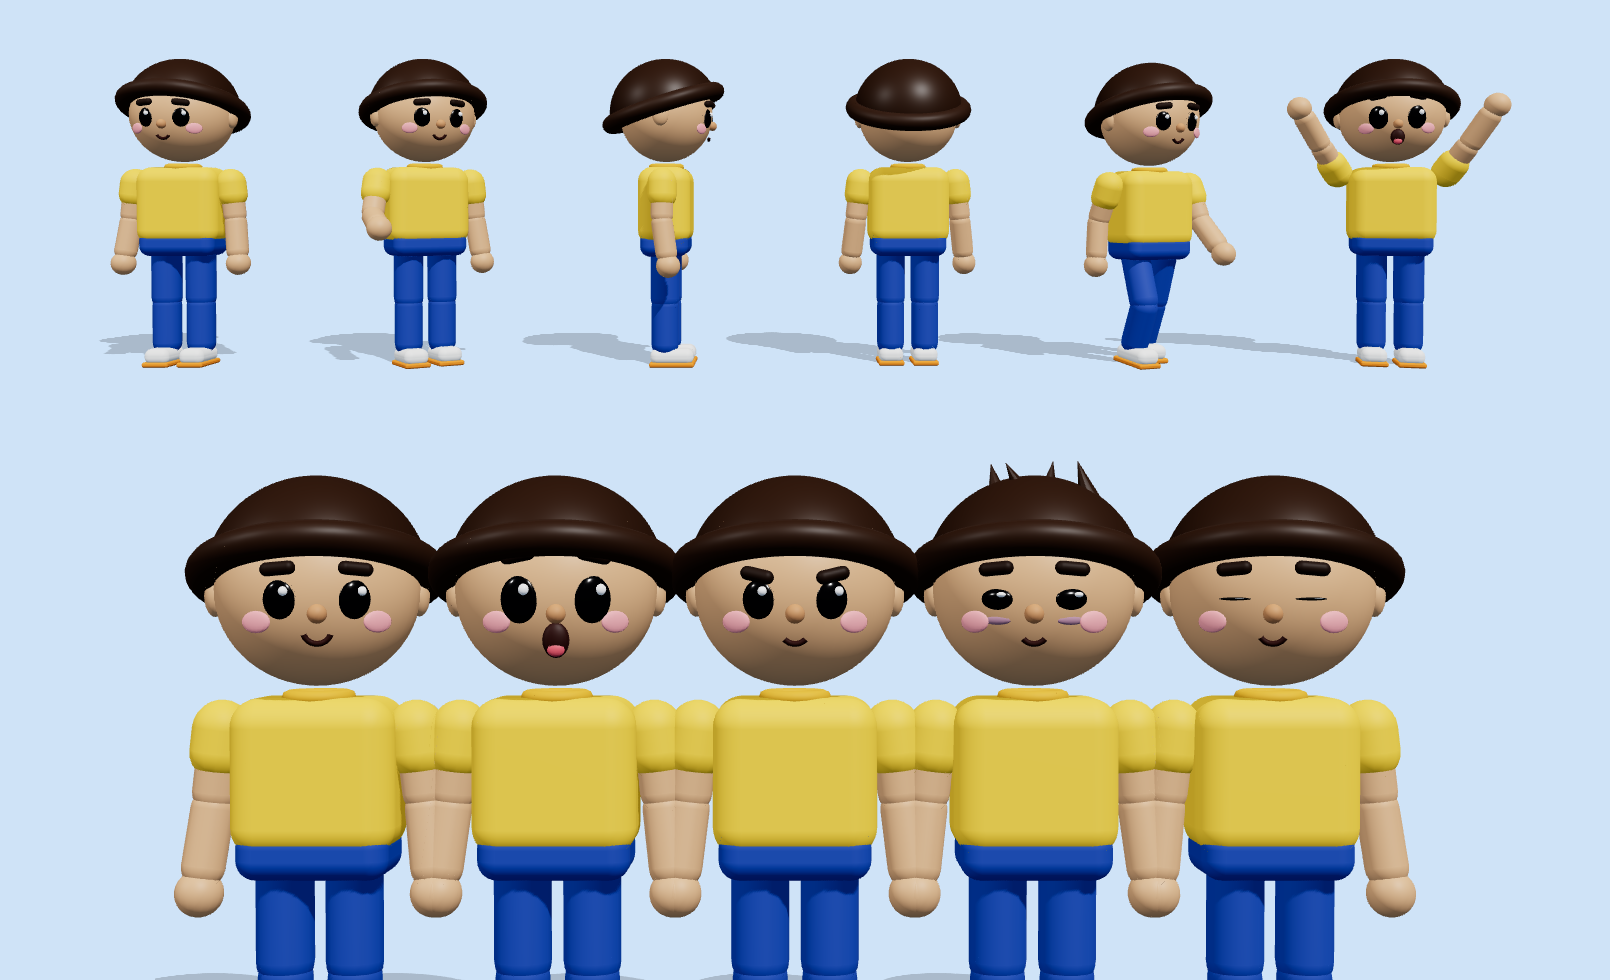
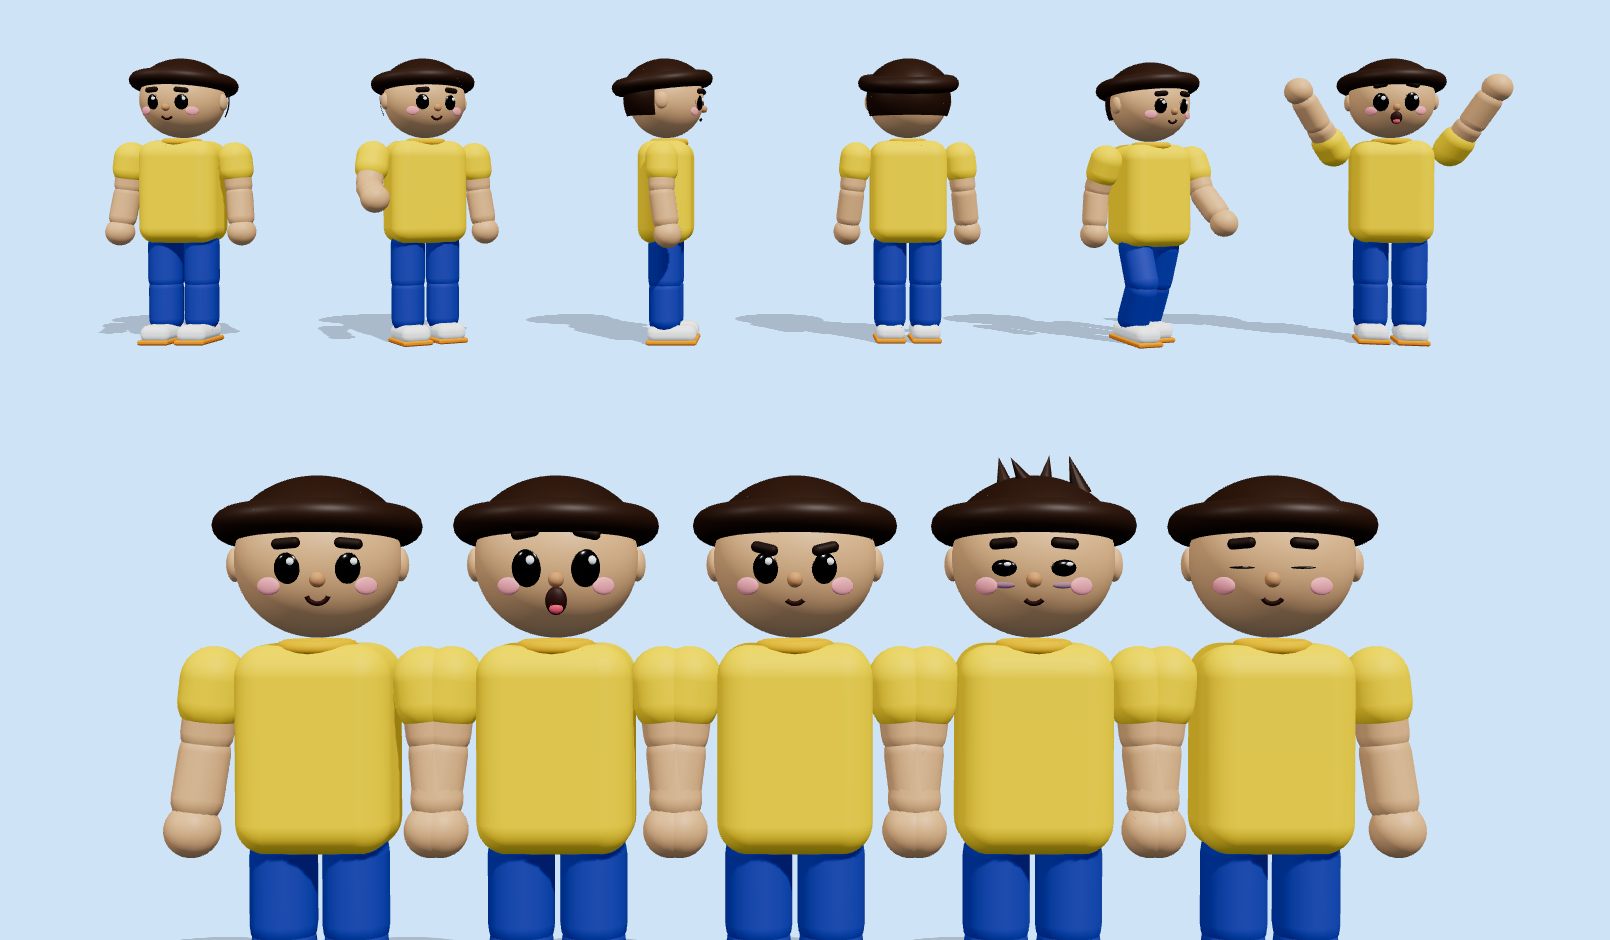
Personagem novo com as proporções da referência (cabeça, tronco, pernas, braços e cabelo medidos)
Claude-Session: https://claude.ai/code/session_014rWy54wiyDCdXJ8meXmh5L

Changed region(s): [[0.0932, 0.4628, 0.9006, 1.0], [0.1863, 0.0617, 0.9627, 0.4011], [0.0621, 0.0617, 0.1553, 0.4011]]

diff --git a/teste-fogo/src/Toy.tsx b/teste-fogo/src/Toy.tsx
@@ -40,21 +40,26 @@ const useToyMats = (L: ToyLook) =>
     [L.skin, L.shirt, L.pants, L.hair, L.shoe, L.sole],
   );
 
-const HIP = 0.78;
+/* proporções medidas no boneco de referência (altura total ≈ 2,0):
+   tênis 0–0,13 · pernas até 0,70 · tronco 0,70–1,415 · cabeça (com cabelo) 1,445–2,0 */
+const HIP = 0.72;
+const TORSO_BOT = 0.7;
+const TORSO_TOP = 1.415;
 const HR = 0.34; // raio do cabelo
-const HT = 1.5; // até onde o cabelo desce (ângulo a partir do topo)
-const HIPX = 0.12;
-const SHX = 0.33;
-const SHY = 1.3;
+const HT = Math.acos(0.135 / HR); // borda do cabelo na altura da testa (logo acima das sobrancelhas)
+const HIPX = 0.125;
+const SHX = 0.36;
+const SHY = 1.325;
+const THIGH = 0.3;
+const SHIN = 0.29;
 
 export const Toy: React.FC<{pose: Pose; palmRef?: React.Ref<THREE.Object3D>; look?: ToyLook}> = ({pose, palmRef, look = {}}) => {
   const m = useToyMats(look);
   const geo = useMemo(
     () => ({
-      torso: new RoundedBoxGeometry(0.56, 0.54, 0.36, 5, 0.1),
-      waist: new RoundedBoxGeometry(0.52, 0.18, 0.33, 4, 0.07),
-      shoe: new RoundedBoxGeometry(0.17, 0.11, 0.3, 4, 0.05),
-      sole: new RoundedBoxGeometry(0.18, 0.035, 0.31, 3, 0.015),
+      torso: new RoundedBoxGeometry(0.53, TORSO_TOP - TORSO_BOT, 0.37, 5, 0.11),
+      shoe: new RoundedBoxGeometry(0.2, 0.12, 0.34, 4, 0.055),
+      sole: new RoundedBoxGeometry(0.21, 0.035, 0.35, 3, 0.015),
     }),
     [],
   );
@@ -90,23 +95,23 @@ export const Toy: React.FC<{pose: Pose; palmRef?: React.Ref<THREE.Object3D>; loo
   const arm = (side: 1 | -1, shoulder: [number, number, number], elbow: number, wrist: [number, number, number], ref?: React.Ref<THREE.Object3D>) => (
     <group position={[SHX * side, SHY, 0]} rotation={shoulder}>
       {/* manga curta da camiseta */}
-      <mesh position={[0, -0.08, 0]} material={m.shirt} castShadow>
-        <capsuleGeometry args={[0.1, 0.08, 6, 14]} />
+      <mesh position={[0, -0.07, 0]} material={m.shirt} castShadow>
+        <capsuleGeometry args={[0.112, 0.08, 6, 14]} />
       </mesh>
       {/* braço */}
-      <mesh position={[0, -0.16, 0]} material={m.skin} castShadow>
-        <capsuleGeometry args={[0.076, 0.2, 6, 14]} />
+      <mesh position={[0, -0.14, 0]} material={m.skin} castShadow>
+        <capsuleGeometry args={[0.09, 0.16, 6, 14]} />
       </mesh>
-      <group position={[0, -0.3, 0]} rotation={[elbow, 0, 0]}>
-        <mesh position={[0, -0.12, 0]} material={m.skin} castShadow>
-          <capsuleGeometry args={[0.074, 0.2, 6, 14]} />
+      <group position={[0, -0.26, 0]} rotation={[elbow, 0, 0]}>
+        <mesh position={[0, -0.11, 0]} material={m.skin} castShadow>
+          <capsuleGeometry args={[0.088, 0.16, 6, 14]} />
         </mesh>
-        <group position={[0, -0.28, 0]} rotation={wrist}>
+        <group position={[0, -0.25, 0]} rotation={wrist}>
           {/* mão de bolinha */}
-          <mesh position={[0, -0.03, 0]} material={m.skin} castShadow>
-            <sphereGeometry args={[0.082, 18, 14]} />
+          <mesh position={[0, -0.045, 0]} material={m.skin} castShadow>
+            <sphereGeometry args={[0.095, 18, 14]} />
           </mesh>
-          <object3D ref={ref} position={[0, -0.045, 0.08]} />
+          <object3D ref={ref} position={[0, -0.06, 0.09]} />
         </group>
       </group>
     </group>
@@ -125,16 +130,16 @@ export const Toy: React.FC<{pose: Pose; palmRef?: React.Ref<THREE.Object3D>; loo
         const foot = -(hipRot + knee) * (walkAmt > 0 ? 0.7 : 0);
         return (
           <group key={sd} position={[HIPX * sd, HIP, 0]} rotation={[hipRot, 0, 0]}>
-            <mesh position={[0, -0.17, 0]} material={m.pants} castShadow receiveShadow>
-              <capsuleGeometry args={[0.1, 0.3, 6, 14]} />
+            <mesh position={[0, -THIGH / 2, 0]} material={m.pants} castShadow receiveShadow>
+              <capsuleGeometry args={[0.116, THIGH - 0.06, 6, 14]} />
             </mesh>
-            <group position={[0, -0.36, 0]} rotation={[knee, 0, 0]}>
-              <mesh position={[0, -0.15, 0]} material={m.pants} castShadow receiveShadow>
-                <capsuleGeometry args={[0.095, 0.26, 6, 14]} />
+            <group position={[0, -THIGH, 0]} rotation={[knee, 0, 0]}>
+              <mesh position={[0, -SHIN / 2, 0]} material={m.pants} castShadow receiveShadow>
+                <capsuleGeometry args={[0.112, SHIN - 0.08, 6, 14]} />
               </mesh>
-              <group position={[0, -0.33, 0]} rotation={[foot, 0, 0]}>
-                <mesh position={[0, -0.035, 0.05]} geometry={geo.shoe} material={m.shoe} castShadow />
-                <mesh position={[0, -0.09, 0.05]} geometry={geo.sole} material={m.sole} />
+              <group position={[0, -SHIN, 0]} rotation={[foot, 0, 0]}>
+                <mesh position={[0, -0.055, 0.05]} geometry={geo.shoe} material={m.shoe} castShadow />
+                <mesh position={[0, -0.112, 0.05]} geometry={geo.sole} material={m.sole} />
               </group>
             </group>
           </group>
@@ -143,16 +148,15 @@ export const Toy: React.FC<{pose: Pose; palmRef?: React.Ref<THREE.Object3D>; loo
       {/* tronco: gira em volta do quadril */}
       <group position={[0, HIP, 0]} rotation={torso}>
         <group position={[0, -HIP, 0]}>
-          <mesh position={[0, 0.84, 0]} geometry={geo.waist} material={m.pants} castShadow />
-          <mesh position={[0, 1.1 + breathe * 0.004, 0]} scale={[1, 1 + breathe * 0.008, 1]} geometry={geo.torso} material={m.shirt} castShadow receiveShadow />
+          <mesh position={[0, (TORSO_BOT + TORSO_TOP) / 2 + breathe * 0.004, 0]} scale={[1, 1 + breathe * 0.008, 1]} geometry={geo.torso} material={m.shirt} castShadow receiveShadow />
           {/* gola */}
-          <mesh position={[0, 1.37, 0]} rotation={[Math.PI / 2, 0, 0]} material={m.shirtDark}>
-            <torusGeometry args={[0.1, 0.025, 8, 20]} />
+          <mesh position={[0, TORSO_TOP - 0.01, 0.02]} rotation={[Math.PI / 2, 0, 0]} material={m.shirtDark}>
+            <torusGeometry args={[0.11, 0.026, 8, 20]} />
           </mesh>
           {arm(-1, rShoulder, rElbow, rWrist, palmRef)}
           {arm(1, lShoulder, lElbow, lWrist)}
           {/* cabeça */}
-          <group position={[0, 1.74, 0]} rotation={head} scale={1.08}>
+          <group position={[0, TORSO_TOP + 0.29, 0]} rotation={head} scale={0.875}>
             <mesh scale={[1, 0.96, 0.94]} material={m.skin} castShadow>
               <sphereGeometry args={[0.32, 40, 30]} />
             </mesh>
@@ -163,14 +167,18 @@ export const Toy: React.FC<{pose: Pose; palmRef?: React.Ref<THREE.Object3D>; loo
               </mesh>
             ))}
             {/* cabelo em cuia: calota cheia inclinada pra trás (alto na testa, desce até a nuca) com borda grossa */}
-            <group position={[0, 0.02, -0.01]} rotation={[-0.32, 0, 0]} scale={[1.03, 1.0, 1.05]}>
+            <group position={[0, 0.0, -0.015]} rotation={[-0.12, 0, 0]} scale={[1.06, 0.97, 1.07]}>
               <mesh material={m.hair} castShadow>
                 <sphereGeometry args={[HR, 40, 22, 0, Math.PI * 2, 0, HT]} />
               </mesh>
               <mesh position={[0, HR * Math.cos(HT), 0]} rotation={[Math.PI / 2, 0, 0]} material={m.hair} castShadow>
-                <torusGeometry args={[HR * Math.sin(HT), 0.055, 16, 48]} />
+                <torusGeometry args={[HR * Math.sin(HT), 0.068, 16, 48]} />
               </mesh>
             </group>
+            {/* cabelo de trás: cobre a nuca, termina logo atrás das orelhas */}
+            <mesh position={[0, 0.0, -0.01]} scale={[1.03, 0.98, 1.0]} material={m.hair} castShadow>
+              <sphereGeometry args={[0.333, 36, 24, Math.PI + 0.16, Math.PI - 0.32, 0, 2.0]} />
+            </mesh>
             {hairLift > 0.3 &&
               [[-0.12, 0.2], [0.05, -0.15], [0.16, 0.3], [-0.05, 0.5]].map(([x, r], i) => (
                 <mesh key={i} position={[x, 0.33, -0.02 + i * 0.03]} rotation={[0.2 * i - 0.3, 0, r]} scale={hairLift} material={m.hair}>
